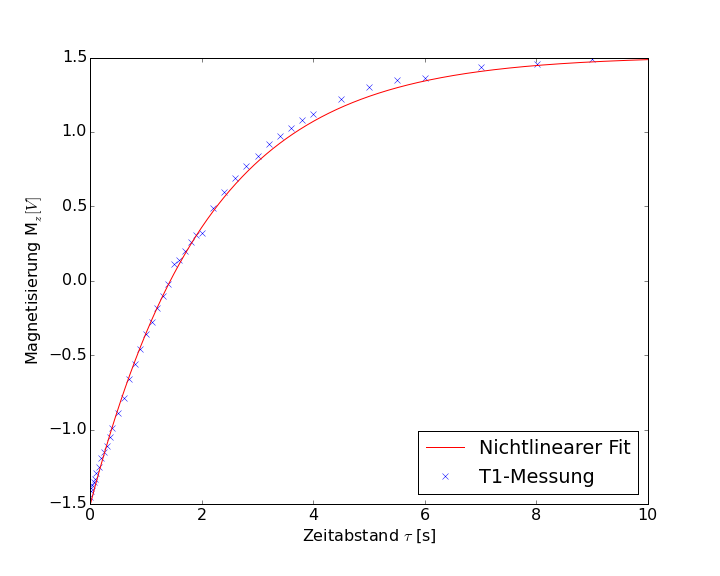
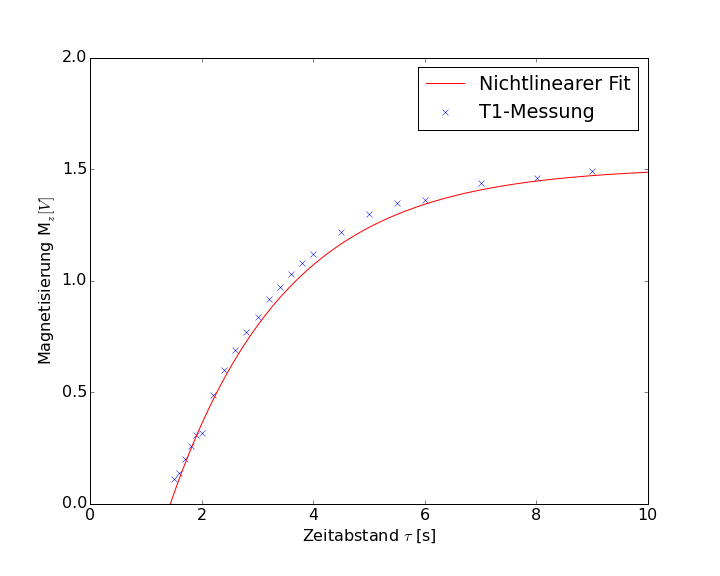
Auswertung D fertig

diff --git a/V49/Daten/auswertung.py b/V49/Daten/auswertung.py
@@ -44,6 +44,12 @@ def f(t,M0,T1):
 def g(x, b, m):
     return m*x+b
 
+def h(t, M0, D):
+    T2=1.227
+    G=7.09*10**6
+    return M0*np.exp(-t/T2)*np.exp(-D*(G**2)*t**3/12)
+
+
 #T1-Bestimmung
 guess = [1.47, 1]
 x_plot=np.linspace(0,10, num=1000)
@@ -55,7 +61,7 @@ plt.errorbar(unp.nominal_values(tau), -unp.nominal_values(M) + errM, fmt='bx', l
 plt.plot(x_plot, f(x_plot, *params), 'r-', label='Nichtlinearer Fit')
 plt.legend(loc="best", numpoints=1)
 plt.xlim(0,10)
-plt.ylim(-1.5, 1.5)
+plt.ylim(0, 2)
 plt.xlabel(r'Zeitabstand $\tau$ [s]')
 plt.ylabel(r'Magnetisierung M$_z [V]$')
 plt.savefig('plotT1.png')
@@ -92,9 +98,41 @@ errors=np.sqrt(np.diag(covariance))
 print('ln(M0) =', params[0], '+/-', errors[0])
 print('-(1/T2) =', params[1], '+/-', errors[1])
 
+#t1/2-Messung
 t= ufloat(params[1],errors[1])
 T2=-(1/t)
 print('T2=',T2)
+
+t12= ufloat(282,4)
+gG=8.8/(4.4*t12)
+print(gG)
+
+#Diffusionsskonstante
+
+data2 = np.genfromtxt('DMessung.txt', unpack='True')
+
+tau=unp.uarray(data2[0,:],0)
+M=unp.uarray(data2[1,:],0.02)
+
+guess = [500, (2*10**(-7))]
+x_plot=np.linspace(0,0.03, num=1000)
+params, covariance = curve_fit(h, unp.nominal_values(tau), unp.nominal_values(M), p0=guess)
+
+plt.figure()
+errM = unp.std_devs(M)
+plt.errorbar(unp.nominal_values(tau), unp.nominal_values(M) + errM, fmt='bx', label="D-Messung")
+plt.plot(x_plot, h(x_plot, *params), 'r-', label='Nicht-Linearer Fit')
+plt.legend(loc="best", numpoints=1)
+plt.xlim(0,0.021)
+plt.ylim(0, 570)
+plt.xlabel(r'Zeitabstand $\tau$ [$\mu$s]')
+plt.ylabel(r'Magnetisierung M$_z$')
+plt.savefig('plotD.png')
+
+errors=np.sqrt(np.diag(covariance))
+
+print('M0 =', params[0], '+/-', errors[0])
+print('D =', params[1], '+/-', errors[1])
 
 #x1,x2, x3 = sympy.var('M_{z} M_{0} \tau')
 #f = -x3/(sympy.log((x1-x2)/(2*x2)))

diff --git a/V49/Protokoll/protokoll.tex b/V49/Protokoll/protokoll.tex
@@ -405,7 +405,7 @@ Die Halbwertsbreite wird somit zu t$_{1/2}=(282 \pm 4) \mu s$ bestimmt. Damit er
 \begin{align*}
 d\gamma G t_{1/2} = 8.8
 \end{align*}
-und der Angabe d=4.4\,mm das Produkt zu $\gamma G=7.09\cdot 10^6\,$m$^{-1}$s$^{-1}$.
+und der Angabe d=4.4\,mm das Produkt zu $\gamma G=(7.09\pm0.10)\cdot 10^6\,$m$^{-1}$s$^{-1}$.
 \subsection{Berechnung des Diffusionskoeffizienten D}
 
 \subsection{Bestimmung der Viskosität $\eta$}
